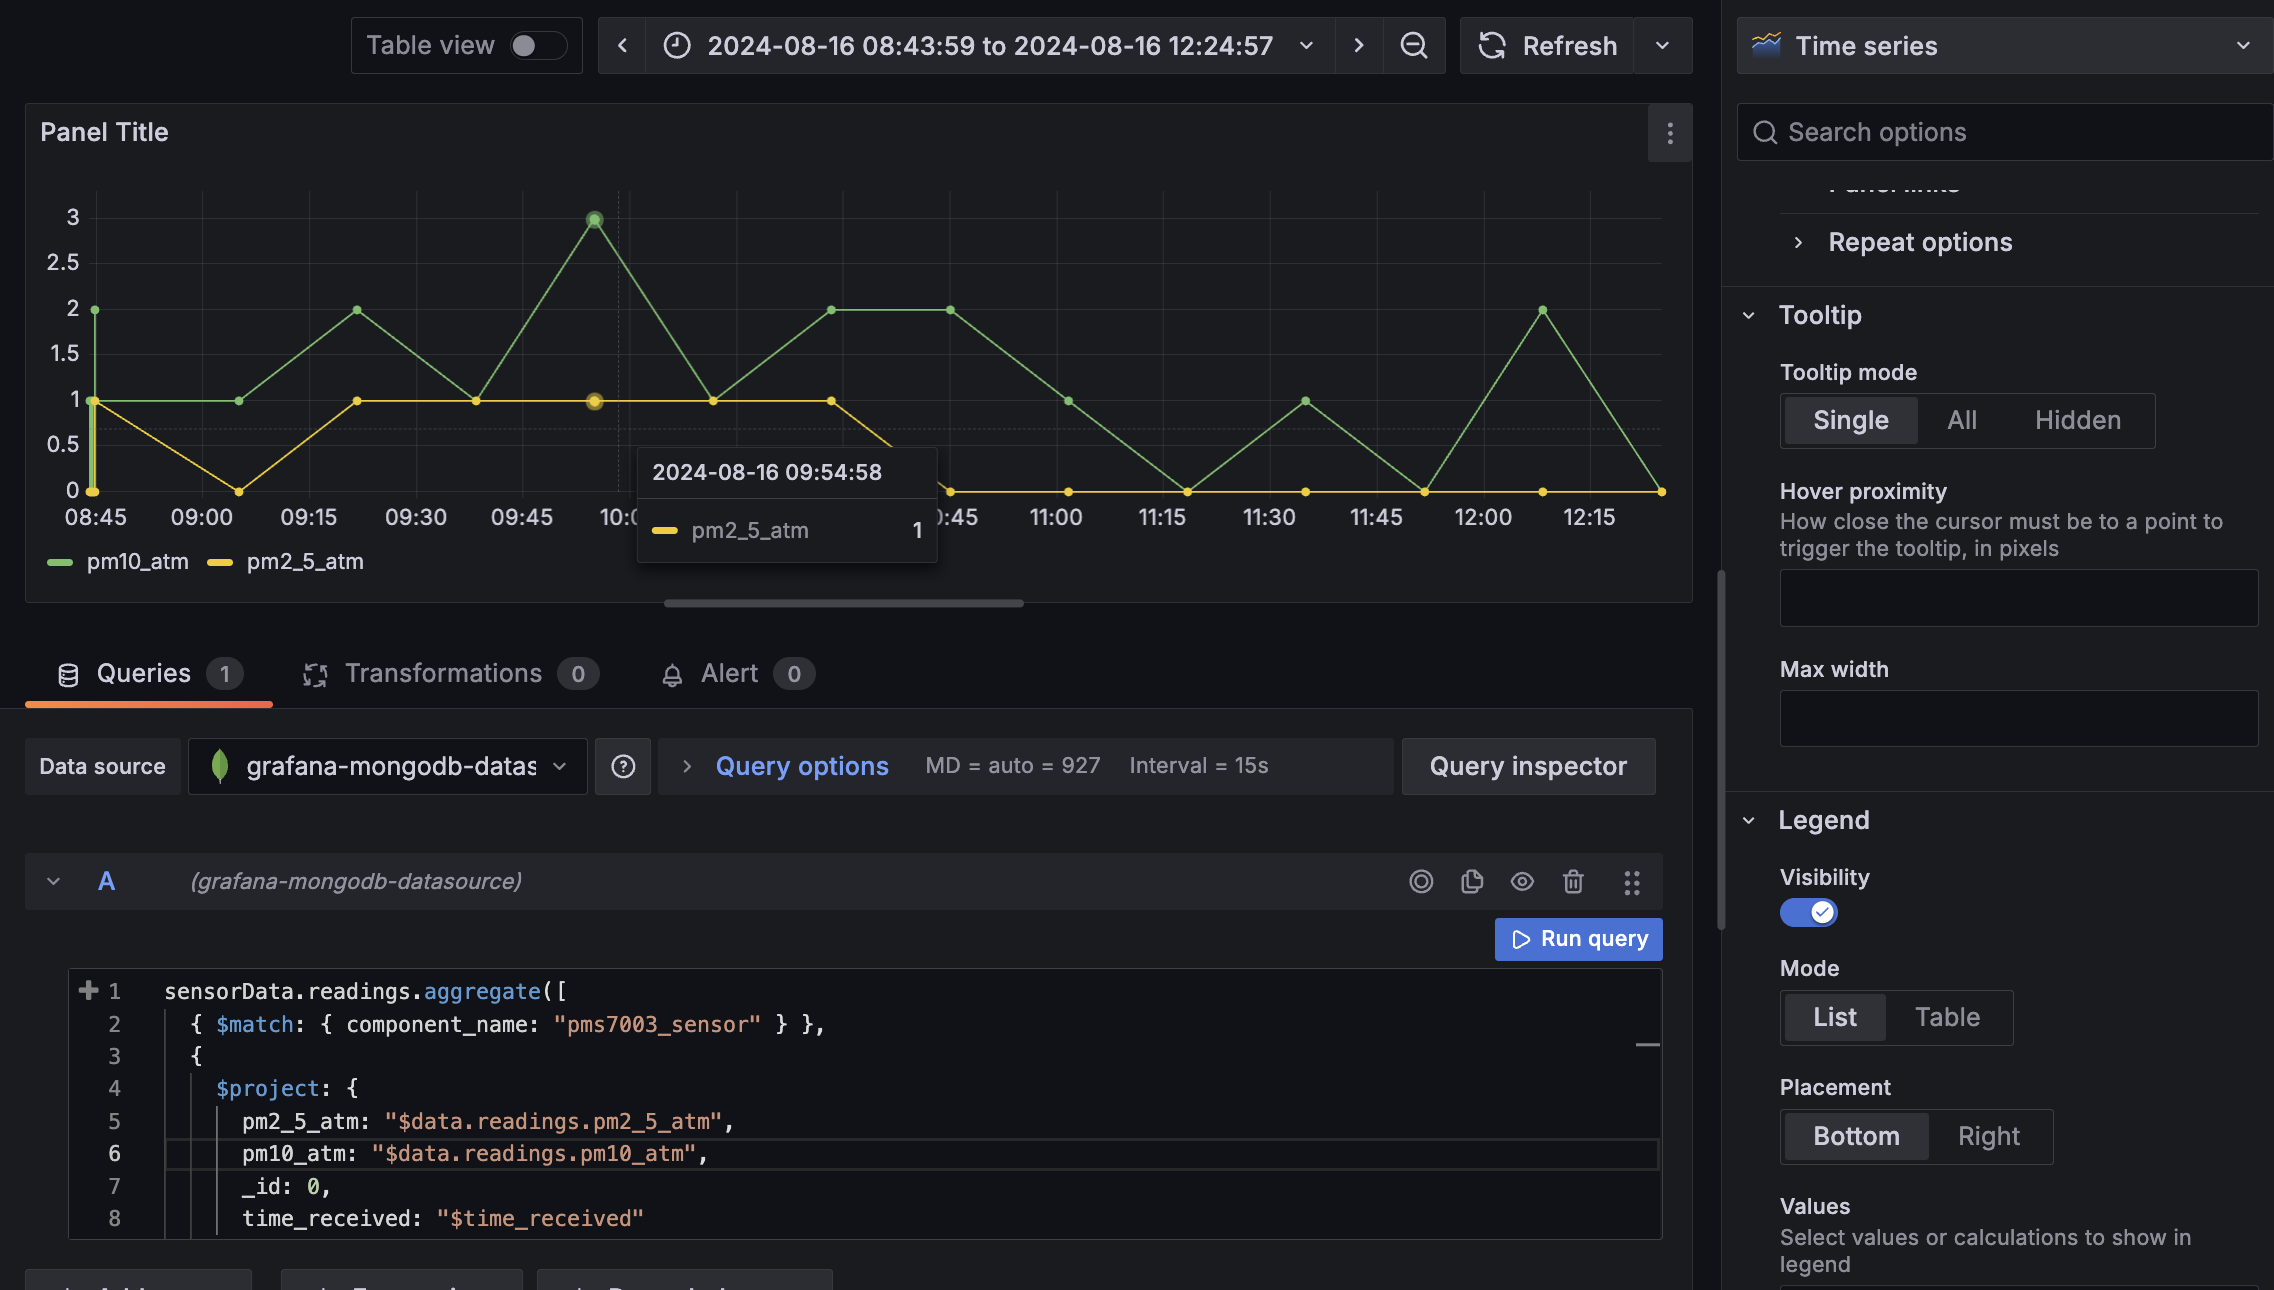
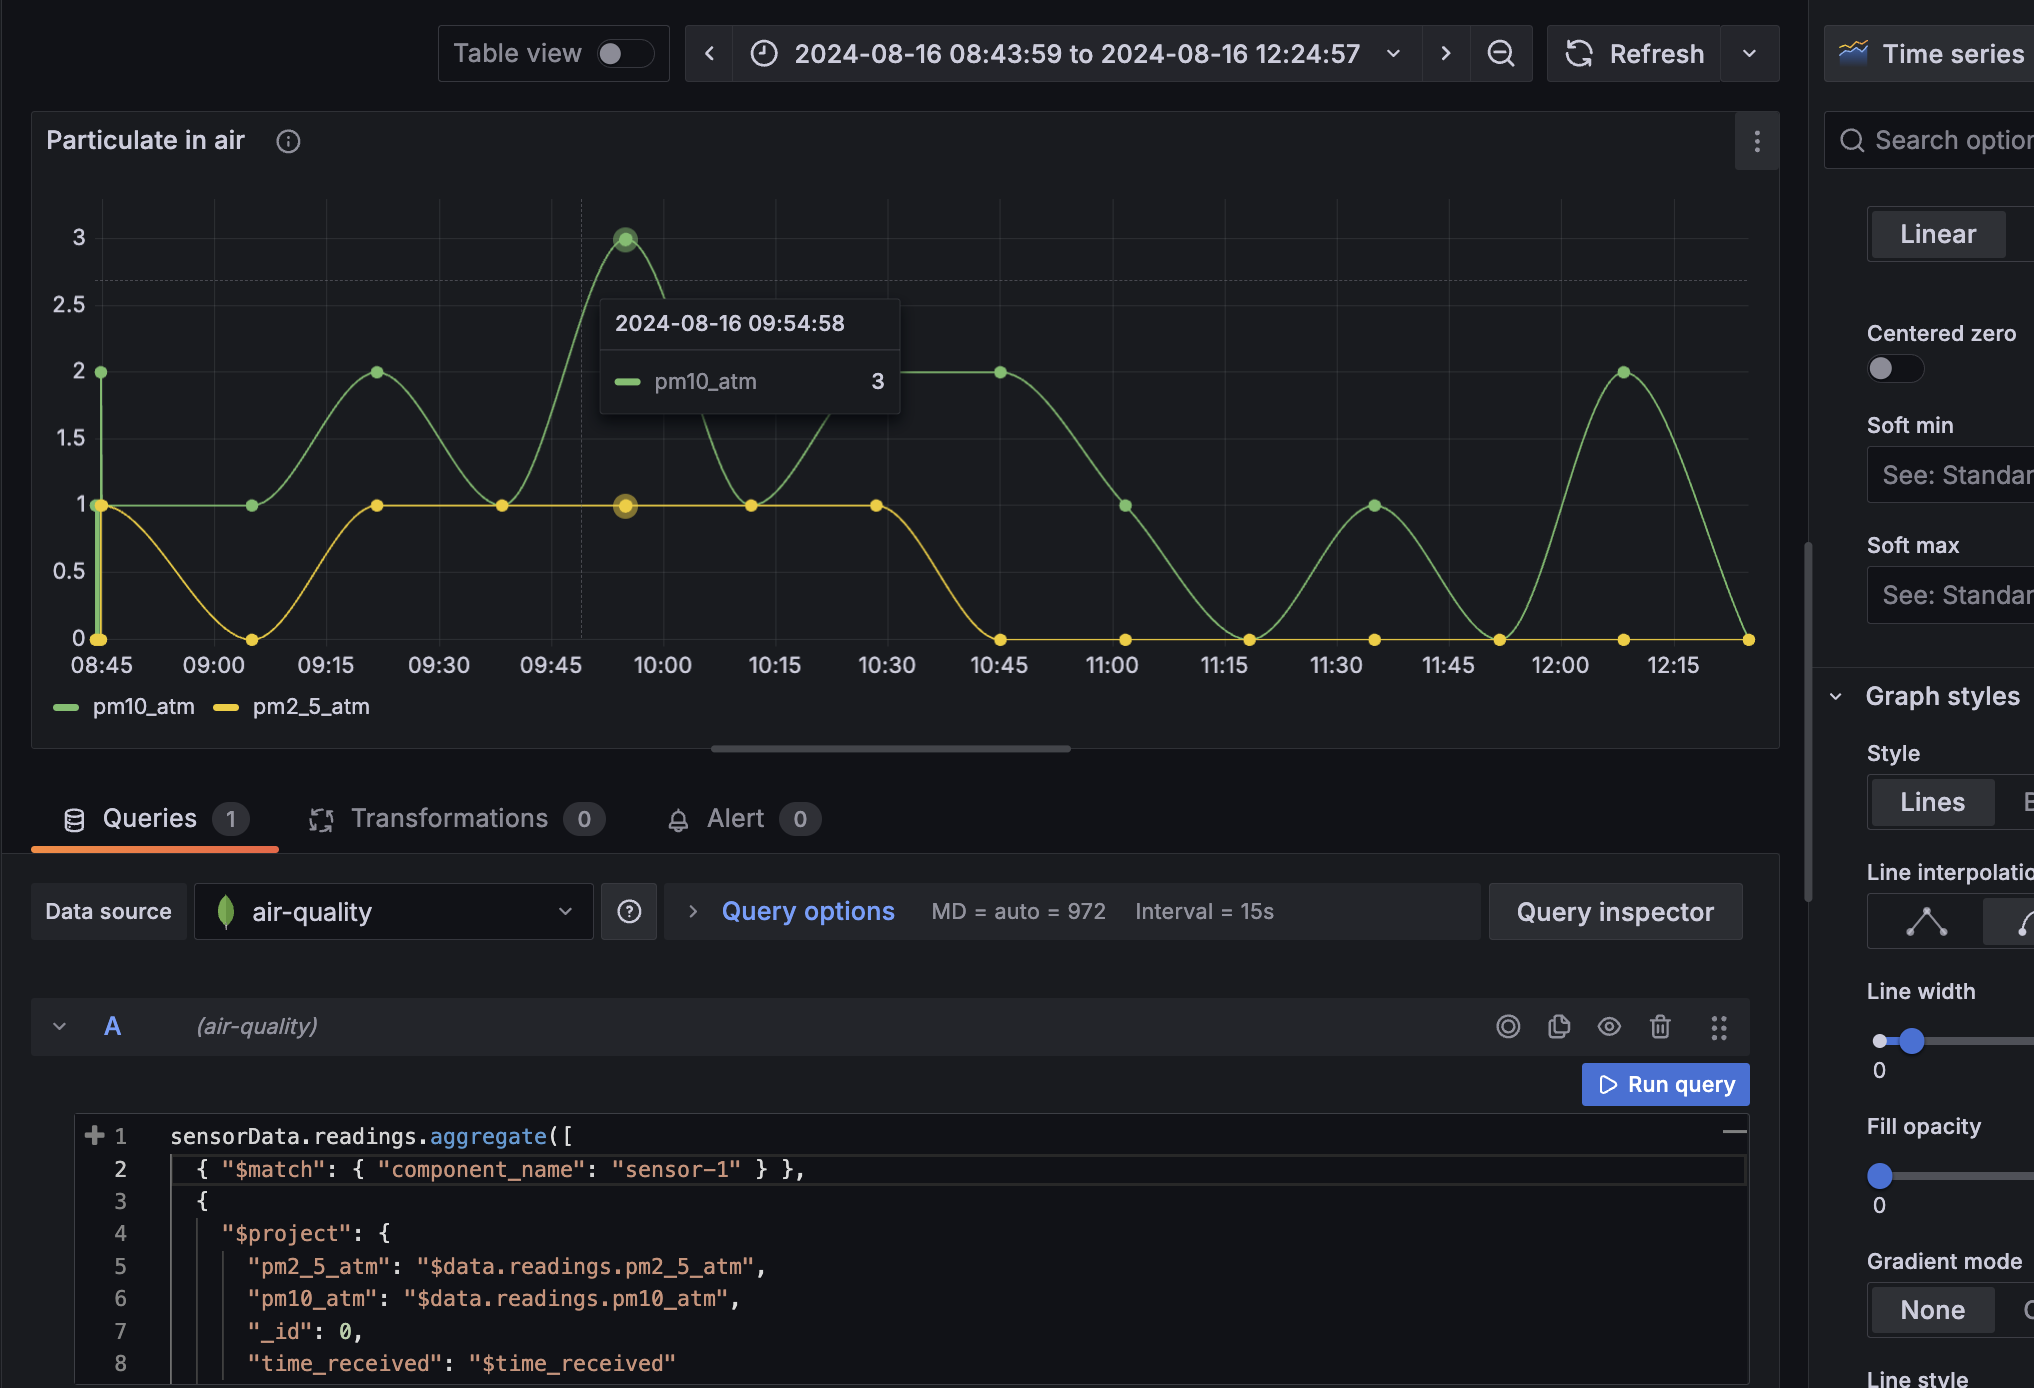
update screenshot and MQL query to correct typo

diff --git a/site/viamguides/src/grafana/grafana.md b/site/viamguides/src/grafana/grafana.md
@@ -166,10 +166,10 @@ With your data connection established, you can then build dashboards that provid
    ![new visualization](assets/newViz.png)
 1. Select the name of the data source that you just configured.
    ![select data source](assets/selectDataSource.png)
-1. Write or construct a query in the query language of your data source, either SQL or MQL. The following MQL query searches the `sensorData` database and `readings` collection, and gets readings from an air quality sensor called `pms7003_sensor`, filtering on fine particulate matter with a diameter of 2.5 or 10 micrometers.
+1. Write or construct a query in the query language of your data source, either SQL or MQL. The following MQL query searches the `sensorData` database and `readings` collection, and gets readings from an air quality sensor called `sensor-1`, filtering on fine particulate matter with a diameter of 2.5 or 10 micrometers.
    ```bash
    sensorData.readings.aggregate([
-      { $match: { component_name: "pms7003_sensor" } },
+      { $match: { component_name: "sensor-1" } },
       {
         $project: {
           pm2_5_atm: "$data.readings.pm2_5_atm",
